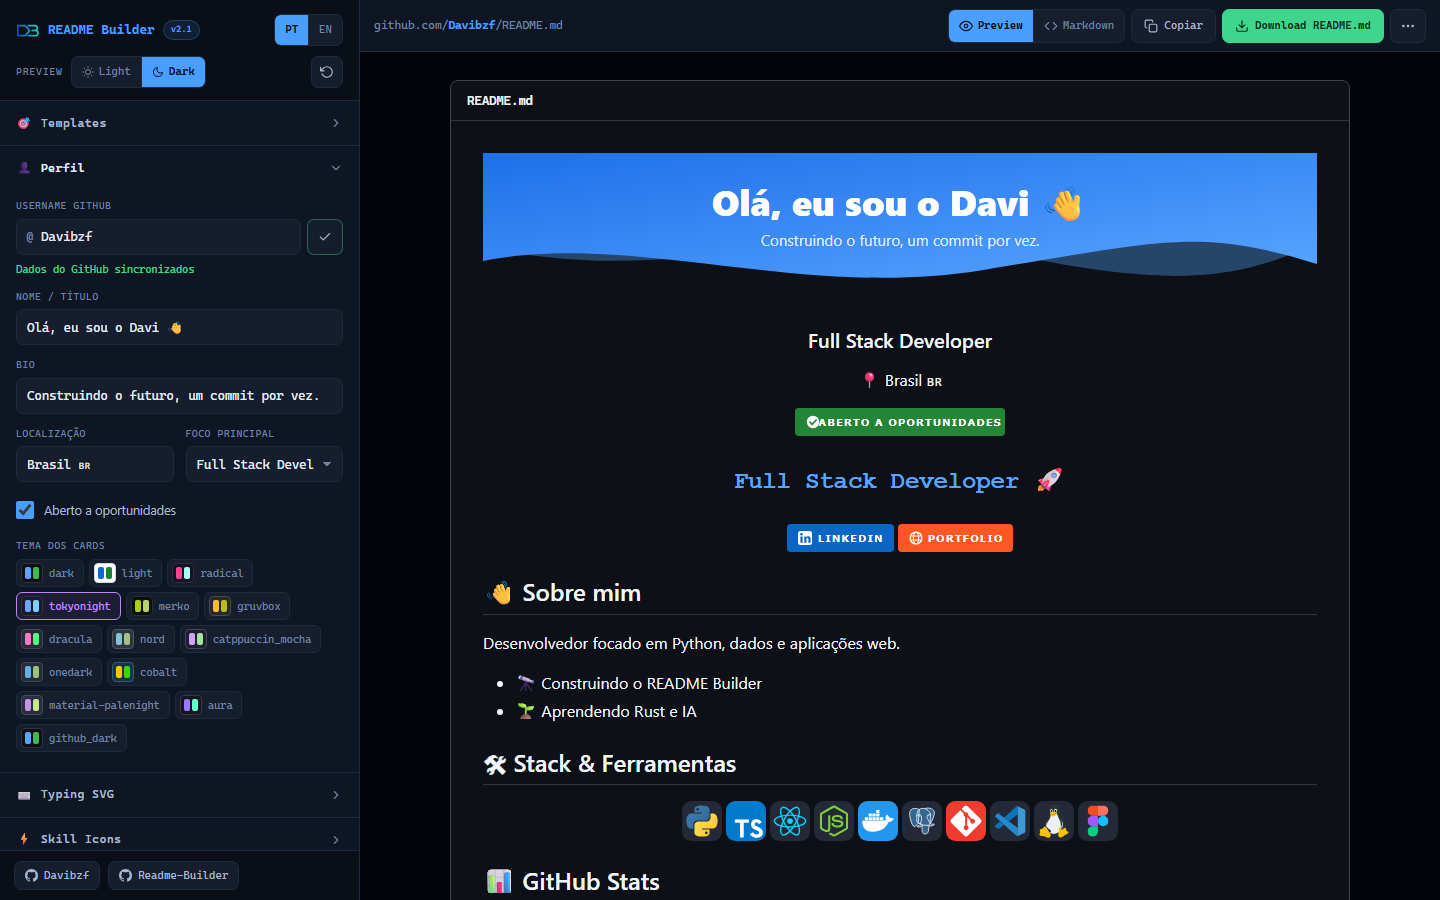
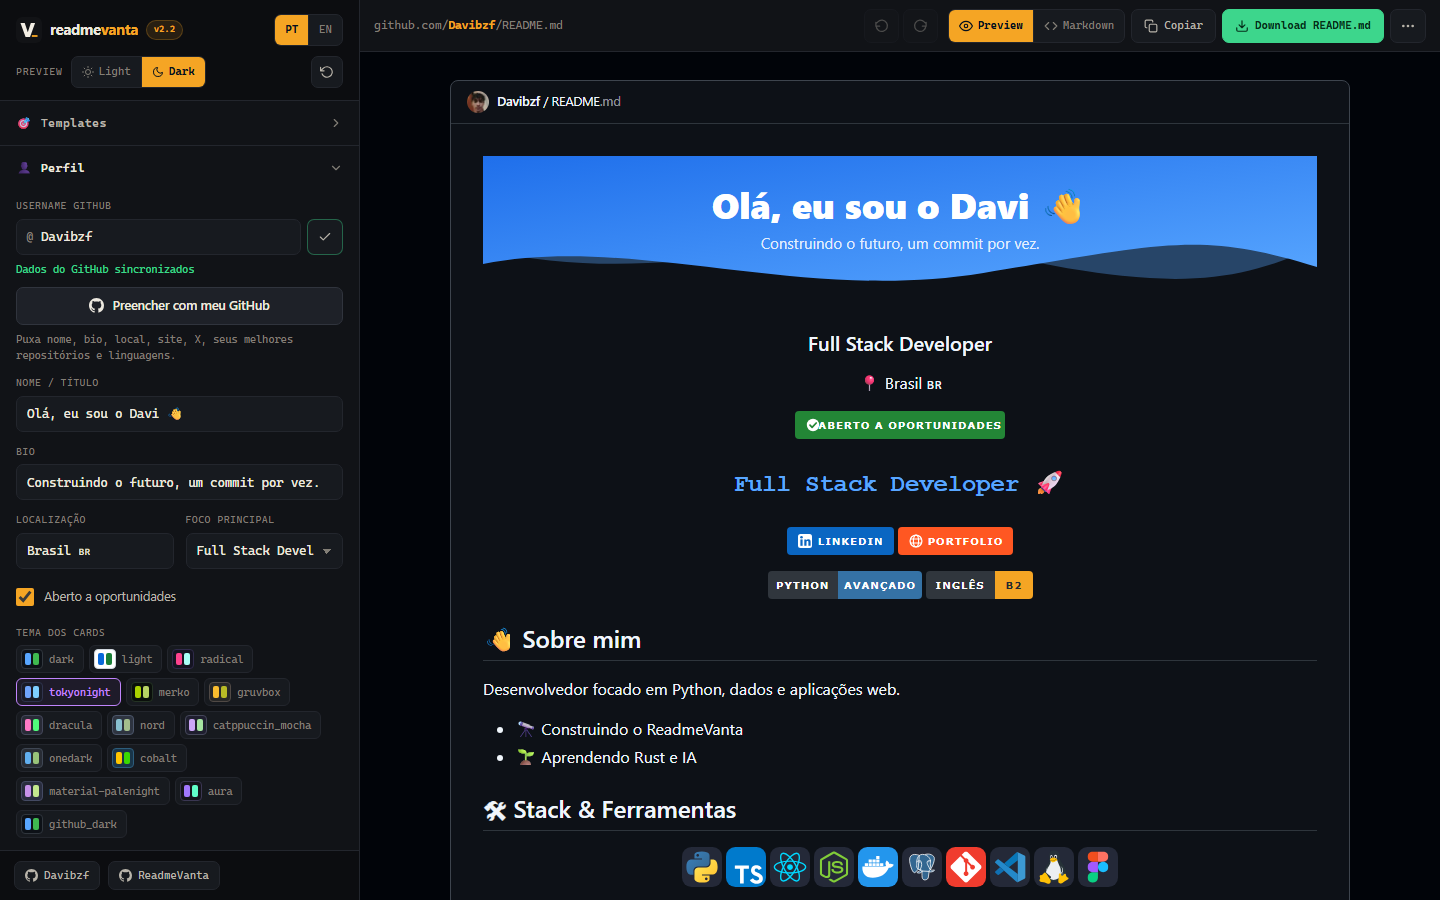
Vitrine ReadmeVanta: nova marca, recursos da v2.2 e capturas atualizadas

diff --git a/README.md b/README.md
@@ -1,60 +1,55 @@
 <div align="center">
 
 <a href="https://readmevanta.vercel.app">
-  <img src="assets/banner.png" width="100%" alt="README Builder — crie o README do seu perfil do GitHub em minutos" />
+  <img src="assets/banner.png" width="100%" alt="ReadmeVanta — o README do seu perfil do GitHub, pronto em minutos" />
 </a>
 
 <br />
 <br />
 
-<a href="https://readmevanta.vercel.app">
-  <img src="https://readmevanta.vercel.app/api/typing.svg?text=Seu+perfil+do+GitHub%2C+pronto+em+minutos+%F0%9F%9A%80&text=Editor+visual+%E2%80%A2+preview+ao+vivo+%E2%80%A2+gr%C3%A1tis&color=58a6ff&speed=45&pause=1400&fontSize=24&width=640&height=56&align=center&font=jetbrains" alt="Seu perfil do GitHub, pronto em minutos" />
-</a>
-
-<br />
-
-<a href="https://readmevanta.vercel.app"><img src="https://readmevanta.vercel.app/api/badge.svg?label=Abrir+o+README+Builder&labelColor=238636&messageColor=238636&style=for-the-badge&logo=website" alt="Abrir o README Builder" /></a>
-<img src="https://readmevanta.vercel.app/api/badge.svg?label=Gr%C3%A1tis&message=sem+cadastro&labelColor=30363d&messageColor=1f6feb&style=for-the-badge" alt="Grátis, sem cadastro" />
-<img src="https://readmevanta.vercel.app/api/badge.svg?label=Funciona+no&message=celular&labelColor=30363d&messageColor=8957e5&style=for-the-badge" alt="Funciona no celular" />
+<a href="https://readmevanta.vercel.app"><img src="https://readmevanta.vercel.app/api/badge.svg?label=Abrir+o+ReadmeVanta&labelColor=F5A524&messageColor=F5A524&style=for-the-badge&logo=website" alt="Abrir o ReadmeVanta" /></a>
+<img src="https://readmevanta.vercel.app/api/badge.svg?label=Gr%C3%A1tis&message=sem+cadastro&labelColor=121316&messageColor=30363d&style=for-the-badge" alt="Grátis, sem cadastro" />
+<img src="https://readmevanta.vercel.app/api/badge.svg?label=Funciona+no&message=celular&labelColor=121316&messageColor=30363d&style=for-the-badge" alt="Funciona no celular" />
 
 </div>
 
 ---
 
-## ✨ O que é
+## O que é
 
-O **README Builder** é uma ferramenta web gratuita para montar o README do seu perfil do GitHub **sem escrever uma linha de Markdown**. Você preenche, vê o resultado em tempo real e baixa o `README.md` pronto.
+O **ReadmeVanta** monta o README do seu perfil do GitHub **sem você escrever uma linha de Markdown**. Digite seu usuário, clique em *Preencher com meu GitHub*, ajuste o que quiser vendo o resultado em tempo real e baixe o `README.md` pronto.
 
-Sem cadastro, sem instalar nada, sem configurar API — e funciona no computador, no tablet e no celular.
+Sem cadastro, sem instalar nada — no computador, no tablet ou no celular.
 
 <div align="center">
-  <img src="assets/app-desktop.png" width="100%" alt="Editor do README Builder no computador" />
+  <img src="assets/app-desktop.png" width="100%" alt="Editor do ReadmeVanta no computador" />
 </div>
 
 ---
 
-## 🧩 Recursos
+## Recursos
 
 | | |
 |---|---|
-| ⌨ **Typing SVG animado** | Frases que digitam e apagam, com cor, fonte, velocidade e tamanho ajustáveis |
-| ⚡ **430+ ícones** | 250+ tecnologias: linguagens, frameworks, bancos, cloud, DevOps, IA (OpenAI, Ollama, Gemini…), design e games — com variantes claro/escuro |
-| 📊 **Cards com dados reais** | Stats, sequência de contribuições, linguagens mais usadas, troféus e gráfico de atividade — **atualizam sozinhos** |
+| ⚡ **Preencher com meu GitHub** | Nome, bio, local, site, X, seus melhores repositórios e linguagens em um clique |
+| 📊 **Cards com dados reais** | Stats, sequência, linguagens, troféus, gráfico de atividade e calendário de contribuições — **atualizam sozinhos** |
+| 📌 **Cards de repositório** | Seus projetos com descrição, estrelas e forks sempre atualizados |
+| ⌨ **Typing SVG** | Frases que digitam e apagam, com cor, fonte, velocidade e tamanho ajustáveis |
+| 🧩 **430+ ícones** | 250+ tecnologias: linguagens, frameworks, bancos, cloud, DevOps, IA (OpenAI, Ollama, Gemini…), design e games |
+| 🏷 **Badges** | Redes sociais com ícone + badges personalizados (ex.: *Python · avançado*, *Inglês · B2*) |
 | 🎨 **14 temas** | dark, light, tokyonight, dracula, radical, nord, catppuccin, gruvbox, onedark e mais |
 | 🌊 **Banner em onda** | Cabeçalho e rodapé com seu nome, na sua cor |
-| 🔗 **Badges sociais** | LinkedIn, X, portfólio, e-mail, Discord, YouTube e Dev.to — com ícones |
-| 👋 **Sobre mim e projetos** | Parágrafos, fatos rápidos e projetos em destaque |
 | 🐍 **Snake** | A cobrinha que come seus commits — o app gera o workflow pra você |
 | 🧱 **Plugins** | WakaTime, Spotify, LeetCode, Codewars, HackerRank e contador de visitas |
-| ↕ **Ordem das seções** | Reordene ou esconda qualquer parte do README |
-| 🎯 **Templates** | Backend, Frontend, Full Stack, DevOps, Mobile e Estudante |
-| 👁 **Preview fiel** | Veja como fica no GitHub claro e escuro antes de publicar |
+| ↕ **Ordem livre** | Reordene ou esconda qualquer seção, ícone ou projeto |
+| ↩ **Desfazer / refazer** | `Ctrl+Z` / `Ctrl+Y` em qualquer alteração |
+| 🔗 **Link de compartilhamento** | Envie sua configuração por um link — quem abrir vê exatamente o mesmo |
+| 👁 **Preview fiel** | O preview usa o mesmo gerador das imagens do README: o que você vê é o que aparece no GitHub |
 | 🌐 **PT / EN** | Interface e README em português ou inglês |
-| 💾 **Salva sozinho** | Seu progresso fica no navegador; exporte/importe a configuração em JSON |
 
 ---
 
-## 📱 Feito para qualquer tela
+## Feito para qualquer tela
 
 <div align="center">
   <img src="assets/app-mobile-editor.jpg" width="31%" alt="Editor no celular" />
@@ -62,44 +57,45 @@ Sem cadastro, sem instalar nada, sem configurar API — e funciona no computador
   <img src="assets/app-mobile-preview.jpg" width="31%" alt="Preview no celular" />
 </div>
 
-<p align="center"><sub>No celular, uma barra inferior alterna entre <b>Editar</b>, <b>Preview</b>, <b>Markdown</b> e <b>Baixar</b>.</sub></p>
+<p align="center"><sub>No celular, a barra inferior alterna entre <b>Editar</b>, <b>Preview</b>, <b>Markdown</b> e <b>Baixar</b>.</sub></p>
 
 ---
 
-## 📊 Exemplo ao vivo
+## Exemplo ao vivo
 
-Estes cards são gerados pelo README Builder agora, com dados reais do GitHub:
+Estes cards são gerados pelo ReadmeVanta agora, com dados reais do GitHub:
 
 <div align="center">
 
-<img width="49%" src="https://readmevanta.vercel.app/api/github-stats.svg?username=Davibzf&theme=tokyonight" alt="GitHub stats" />
-<img width="49%" src="https://readmevanta.vercel.app/api/github-streak.svg?user=Davibzf&theme=tokyonight" alt="Contribution streak" />
+<img width="49%" src="https://readmevanta.vercel.app/api/github-stats.svg?username=Davibzf&theme=dark" alt="GitHub stats" />
+<img width="49%" src="https://readmevanta.vercel.app/api/github-streak.svg?user=Davibzf&theme=dark" alt="Contribution streak" />
 
-<img src="https://readmevanta.vercel.app/api/top-langs.svg?username=Davibzf&theme=tokyonight" alt="Top languages" />
+<img width="100%" src="https://readmevanta.vercel.app/api/heatmap.svg?username=Davibzf&theme=dark" alt="Contribution calendar" />
 
-<img src="https://readmevanta.vercel.app/api/trophies.svg?username=Davibzf&theme=tokyonight" alt="Trophies" />
+<img width="49%" src="https://readmevanta.vercel.app/api/repo.svg?username=Davibzf&repo=Sonarize&theme=dark" alt="Sonarize" />
+<img width="49%" src="https://readmevanta.vercel.app/api/repo.svg?username=Davibzf&repo=Netflix-data-analysis&theme=dark" alt="Netflix data analysis" />
 
 </div>
 
 ---
 
-## 🚀 Como usar
+## Como usar
 
 1. Acesse **[readmevanta.vercel.app](https://readmevanta.vercel.app)**
-2. Digite seu **username do GitHub** — seus dados são puxados automaticamente
-3. Escolha um template ou personalize: textos, ícones, cards, redes sociais
+2. Digite seu **usuário do GitHub** e clique em **Preencher com meu GitHub**
+3. Personalize: textos, ícones, cards, badges, ordem das seções
 4. Clique em **Download README.md** (ou copie o Markdown)
 5. No GitHub, crie um repositório **com o mesmo nome do seu usuário** (ex.: `seu-usuario/seu-usuario`) e coloque o arquivo na raiz
 
-Pronto — o README aparece no topo do seu perfil. ✨
+Pronto — o README aparece no topo do seu perfil.
 
 <div align="center">
-  <img src="assets/app-markdown.png" width="100%" alt="Markdown gerado, pronto para copiar ou baixar" />
+  <img src="assets/app-markdown.png" width="100%" alt="Markdown gerado, com realce de sintaxe, pronto para copiar ou baixar" />
 </div>
 
 ---
 
-## ❓ Perguntas frequentes
+## Perguntas frequentes
 
 <details>
 <summary><b>Preciso pagar ou criar conta?</b></summary>
@@ -110,13 +106,13 @@ Não. É gratuito e não pede cadastro nem login.
 <details>
 <summary><b>Os números dos cards ficam desatualizados?</b></summary>
 <br />
-Não. Stats, sequência, linguagens, troféus e gráfico de atividade são gerados no momento em que alguém abre seu perfil, com seus dados públicos atuais.
+Não. Stats, sequência, linguagens, troféus, gráficos e cards de repositório são gerados quando alguém abre seu perfil, com seus dados públicos atuais.
 </details>
 
 <details>
 <summary><b>Meus dados ficam salvos em algum servidor?</b></summary>
 <br />
-A configuração do editor fica só no seu navegador. Os cards consultam apenas dados <b>públicos</b> do seu perfil do GitHub.
+A configuração fica só no seu navegador. O link de compartilhamento leva a configuração dentro da própria URL. Os cards consultam apenas dados <b>públicos</b> do GitHub.
 </details>
 
 <details>
@@ -128,7 +124,7 @@ Ative o plugin <b>Snake</b>, clique em <b>Baixar snake.yml</b> e salve o arquivo
 <details>
 <summary><b>Funciona no celular?</b></summary>
 <br />
-Sim. A interface se adapta a celulares, tablets e computadores, e o download do <code>README.md</code> funciona também no iPhone e no Android.
+Sim. A interface se adapta a celulares, tablets e computadores, e dá para baixar o <code>README.md</code> direto do celular.
 </details>
 
 ---
@@ -137,12 +133,12 @@ Sim. A interface se adapta a celulares, tablets e computadores, e o download do 
 <summary>🇺🇸 <b>English</b></summary>
 <br />
 
-**README Builder** is a free web tool to create your GitHub profile README visually — no Markdown required, no sign-up, works on any device.
+**ReadmeVanta** builds your GitHub profile README visually — no Markdown, no sign-up, any device.
 
-- Animated typing SVG, 430+ icons for 250+ technologies, social badges and wave banners
-- Live GitHub cards (stats, streak, top languages, trophies, activity graph) that update automatically
-- 14 card themes, templates, section ordering, PT/EN interface
-- Live preview in GitHub light/dark, one-click download of `README.md`
+- One-click **Fill from my GitHub** (profile, socials, best repositories, languages)
+- Live cards: stats, streak, top languages, trophies, activity graph, contribution calendar, repository cards
+- Animated typing SVG, 430+ icons for 250+ technologies, social and custom badges, wave banners
+- 14 themes, templates, free section ordering, undo/redo, shareable config links, PT/EN
 
 👉 **[readmevanta.vercel.app](https://readmevanta.vercel.app)**
 
@@ -152,8 +148,8 @@ Sim. A interface se adapta a celulares, tablets e computadores, e o download do 
 
 <div align="center">
 
-Feito com 💙 por **[Davibzf](https://github.com/Davibzf)**
+<img src="assets/logo.svg" width="40" alt="ReadmeVanta" />
 
-Gostou? Deixe uma ⭐ e compartilhe com quem está montando o perfil!
+Feito por **[Davibzf](https://github.com/Davibzf)** · Gostou? Deixe uma ⭐
 
 </div>
